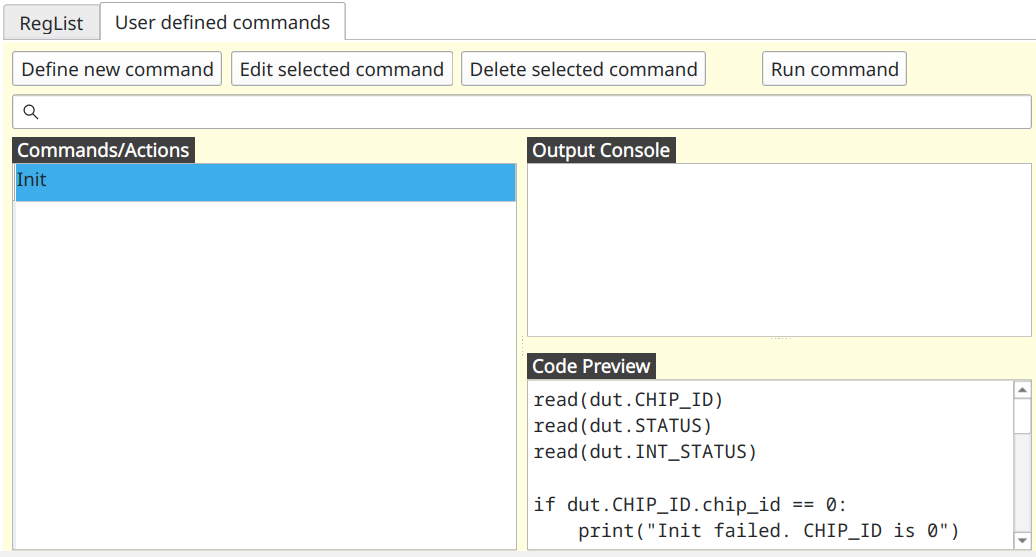
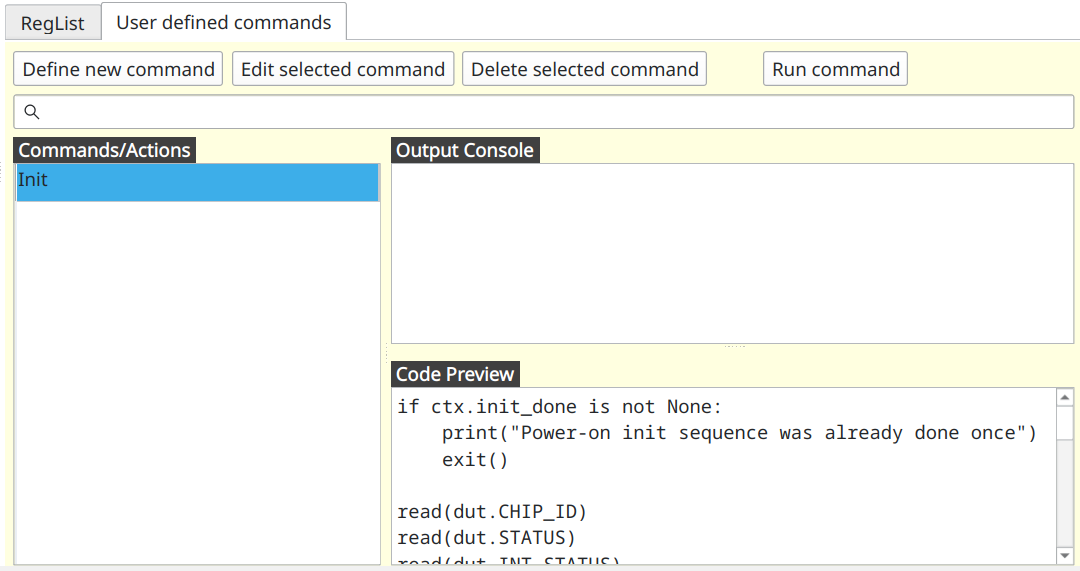
ctx return None for undefined var; more docs

Changed region(s): [[0.0, 0.0, 1.0, 1.0]]

diff --git a/src/i2cc/project.py b/src/i2cc/project.py
@@ -30,8 +30,8 @@ class CommandsContext:
         else:
             try:
                 return self.__context_attributes[name]
-            except KeyError as ex:
-                raise AttributeError(f"Context does not have variable [{name}]") from ex
+            except KeyError:
+                return None
 
 
 @dataclass

diff --git a/docs/high_level_i2c.md b/docs/high_level_i2c.md
@@ -12,6 +12,9 @@ values. If those values are as per specification, then proceed with temperature 
 * Confirm that in `STATUS` register fields `status_nvm_rdy` and `status_nvm_err` have values 1 and 0 respectively.
 * Confirm that in register `INT_STATUS` field `por` is set to 1.
 
+Note that reading `INIT_STATUS` register resets all of its fields to 0. This means that init sequence as outlined above 
+can only be run once on freshly powered on BPM581 chip.
+
 Let's create function that performs these checks. First lets switch to the "_User defined commands_" tab.
 
 ![](images/user-commands-tab.png)
@@ -26,10 +29,14 @@ Now click on "_Define new command_" button. New window will open where are can e
 
 ![](images/init-custom-command.png)
 
-Line above "Init" is a name of custom command as it will appear in the list of commands.
+Line above, "Init" is a name of custom command as it will appear in the list of commands.
 And bellow is the code
 
 ```python
+if ctx.init_done is not None:
+    print("Power-on init sequence was already done once")
+    exit()
+
 read(dut.CHIP_ID)
 read(dut.STATUS)
 read(dut.INT_STATUS)
@@ -48,13 +55,21 @@ elif dut.INT_STATUS.por != 1:
 
 else:
     print("Init success")
+    ctx.init_done = True
 ```
 
 This code is plain python but implicitly in it several special functions and objects are available to the user.
 Let's go over this code to see what they are.
 
-First three lines have form `read(dut.CHIP_ID)`. Object `dut` is implicitly available to the user, and it represents 
-access to the _device under test_ (aka _DUT_) and its registers.
+First we are going to access variable `ctx.init_done` and see if it not `None`. Object `ctx` is global session 
+persistent context. You can read and place any variable in it, and it will survive from one invocation of the command 
+to the next one. Context (`ctx`) is also shared between commands, which is how you can pass messages from one command to 
+another. When you access context variable that is not defined yet it returns `None`. Variable becomes defined and 
+populated by some value when you assign some value to it. At the bottom you can see such 
+assignment `ctx.init_done = True`.
+
+Following three lines have form similar to `read(dut.CHIP_ID)`. Object `dut` is implicitly available to the user, 
+and it represents access to the _device under test_ (aka _DUT_) and its registers.
 
 Function `read(...)` takes register as an argument and reads that register from the connected chip. After registers are 
 read we can access their fields. For example, we can check that `dut.CHIP_ID.chip_id == 0` and so on. 
@@ -63,5 +78,6 @@ Now lets click "_Ok_" button. This command should now appear in the list.
 
 ![](images/commands-1.png)
 
-Now if you double-click (or click on "_Run command_" button or simply press _Enter_ on the keyboard) on this action 
-code will execute. It should print out `Init success` in _Output Console_.
+Now if you double-click (or click on "_Run command_" button or simply press _Enter_ on the keyboard) on this action,
+its code will execute and will print `Init success` in _Output Console_. Subsequent calls to this command prints out
+`Power-on init sequence was already done once`.
